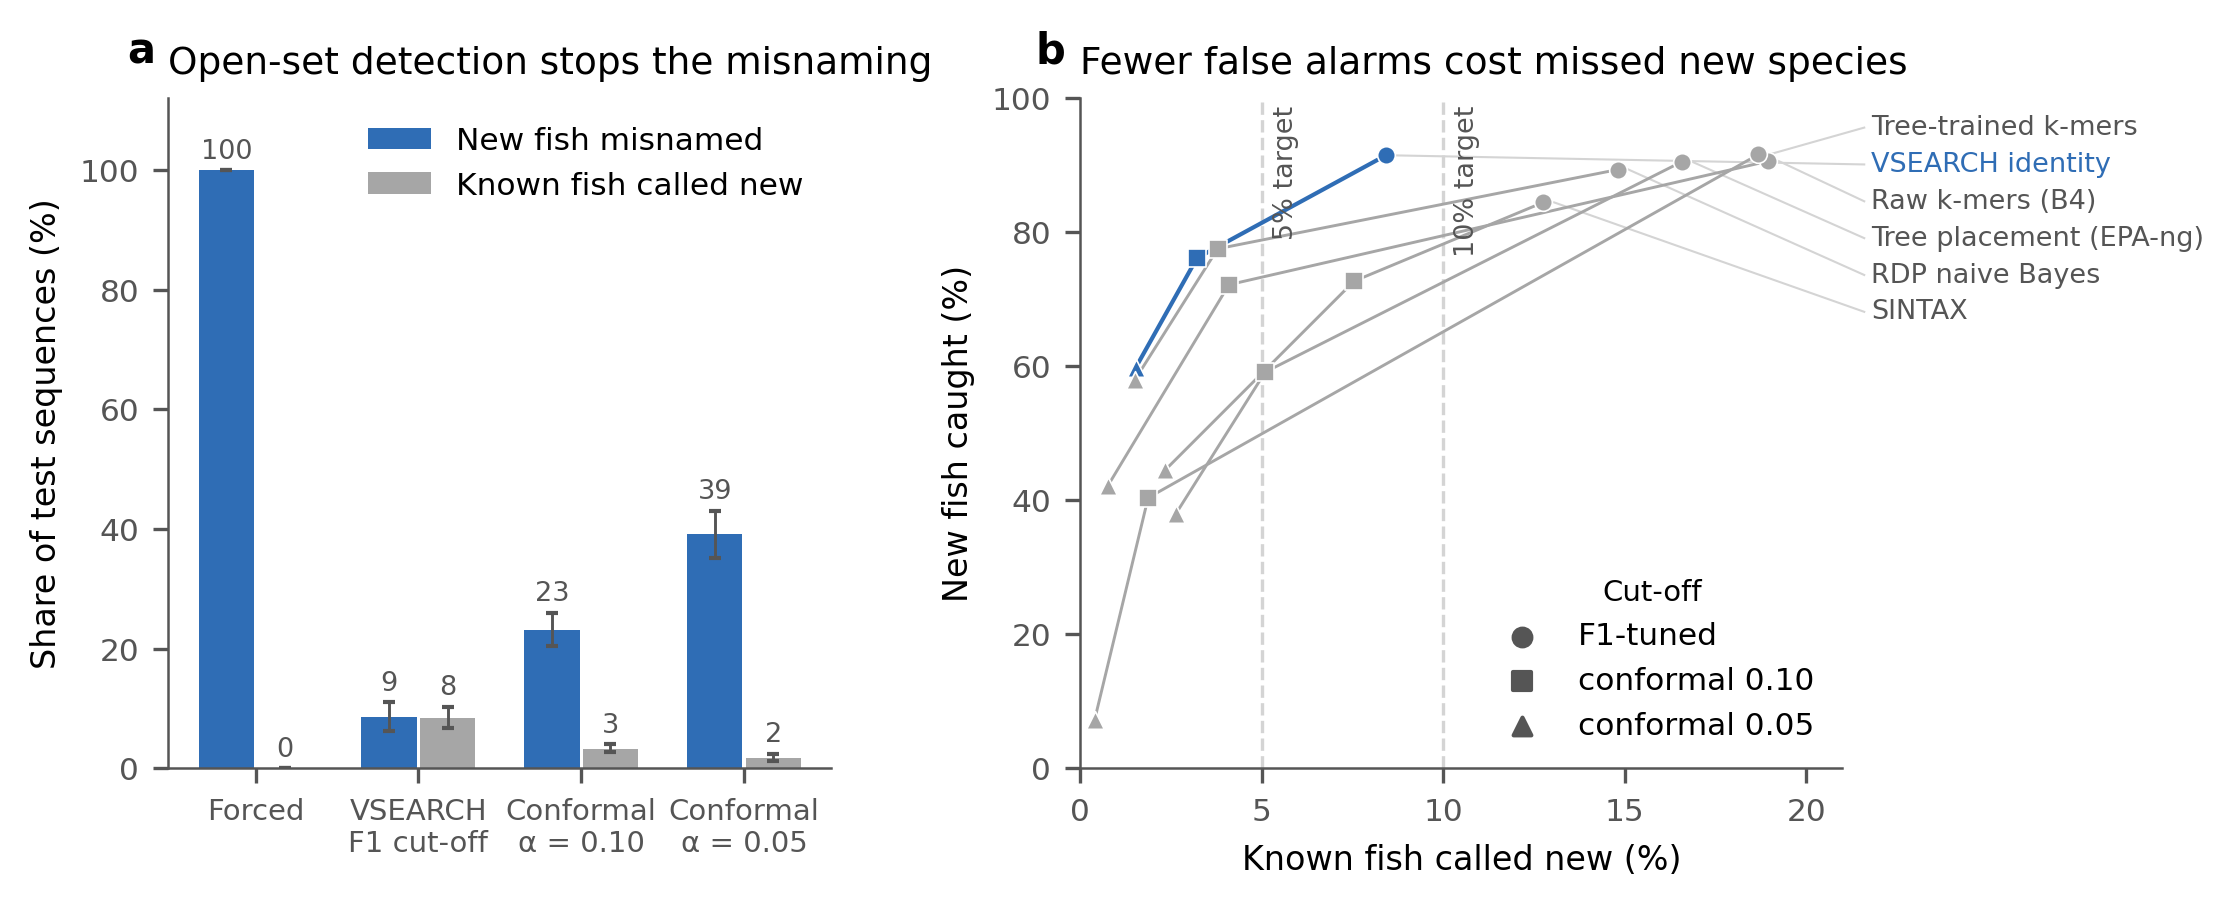
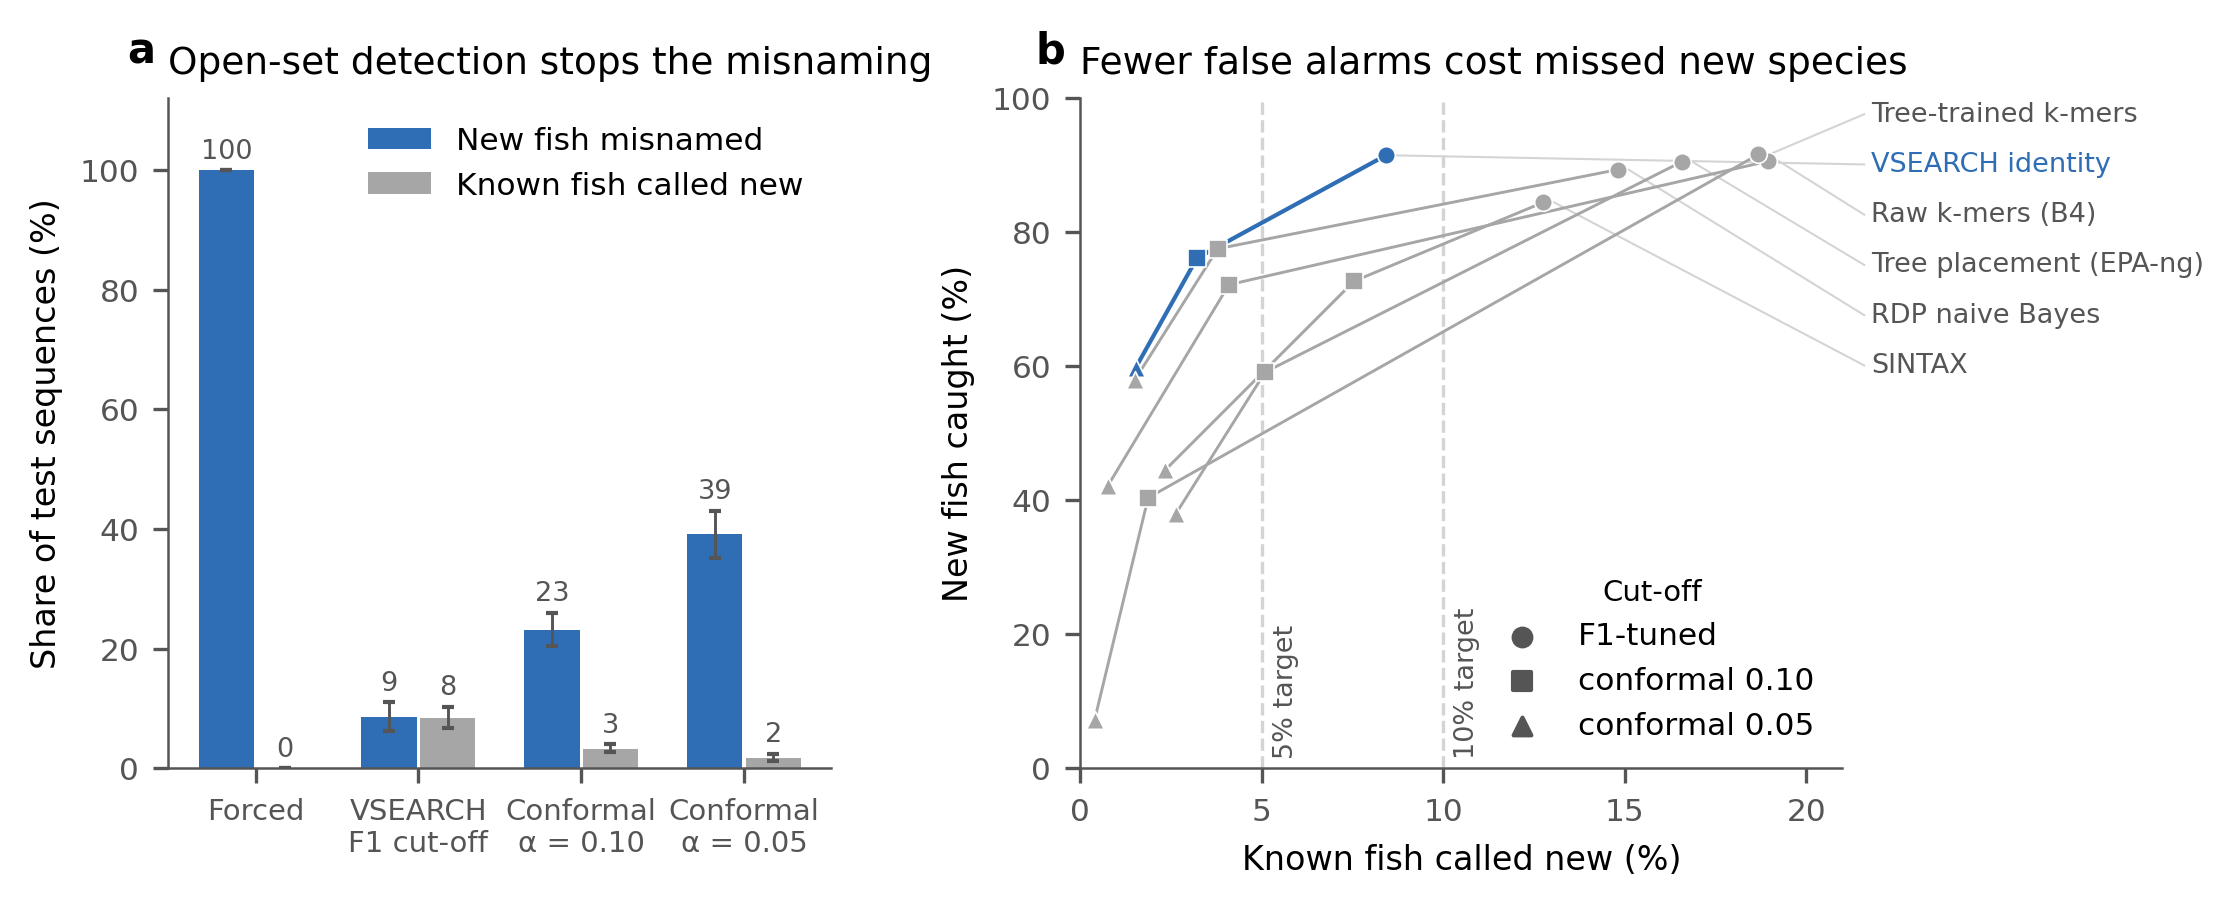
Fig 6: ZOTU-shuffle p-values; layout fixes for Figs 2, 5, 6

diff --git a/paper/evaluate.py b/paper/evaluate.py
@@ -271,7 +271,7 @@ def fig2():
     ends.sort(reverse=True)
     ly, prev = [], None
     for y, *_ in ends:
-        y = min(y, prev - 5.5) if prev is not None else y + 4
+        y = min(y, prev - 7.5) if prev is not None else y + 6
         ly.append(y)
         prev = y
     for (y, x, tname, tool), yl in zip(ends, ly):
@@ -280,7 +280,7 @@ def fig2():
         b.text(21.8, yl, tname, fontsize=6.5, va="center", color=col)
     for t in (5, 10):
         b.axvline(t, color=LIGHT, lw=0.8, ls="--", zorder=0)
-        b.text(t + 0.3, 99, f"{t}% target", fontsize=6.5, color=DARK, rotation=90, va="top")
+        b.text(t + 0.3, 1.5, f"{t}% target", fontsize=6.5, color=DARK, rotation=90, va="bottom")
     for r, lab in [("f1", "F1-tuned"), ("conf10", "conformal 0.10"), ("conf05", "conformal 0.05")]:
         b.scatter([], [], marker=marks[r], color=DARK, s=18, label=lab)
     b.legend(frameon=False, loc="lower right", title="Cut-off", title_fontsize=7)
@@ -428,7 +428,7 @@ def fig5():
     species = clean.drop_duplicates("seq_id").set_index("seq_id").species_name
     fx = pd.read_csv(RES / "cluster_scores_fixed_per_split.csv")
     cs = pd.read_csv(RES / "cluster_scores_per_split.csv")
-    fig, (a, b, c) = plt.subplots(1, 3, figsize=(7.2, 2.5), gridspec_kw=dict(wspace=0.75))
+    fig, (a, b, c) = plt.subplots(1, 3, figsize=(7.2, 2.5), gridspec_kw=dict(wspace=0.95))
     meths = [("gap_align_vs", "Calibrated gap"), ("fixed97_single_vs", "Fixed 97%"), ("fixed98_single_vs", "Fixed 98%"),
              ("fixed99_single_vs", "Fixed 99%"), ("fixed100_single_vs", "Exact (100%)")]
     gap_ari, gap_err = by_split(fx, "ARI", method="gap_align_vs"), count_error("gap_align_vs", species)
@@ -464,14 +464,14 @@ def fig5():
     panel(a, "a")
     panel(b, "b")
     others = [("gap_align", "Calibrated gap"), ("ptp", "PTP"), ("kmer", "HDBSCAN"),
-              ("phylo_tree", "Tree grouping")]
+              ("phylo_tree", "Tree\ngrouping")]
     for i, (m_, lab) in enumerate(others):
         y = len(others) - 1 - i
         m, lo, hi = ci_mean(by_split(cs, "ARI", method=m_))
         c.barh(y, m, 0.62, color=BLUE if i == 0 else GREY)
         c.errorbar(m, y, xerr=[[m - lo], [hi - m]], color=DARK, lw=0.7, capsize=1.5)
         c.text(hi + 0.01, y, f"{m:.2f}", va="center", fontsize=7, color=DARK)
-        key("Results 8", f"{lab}: ARI (B4-called)", m, lo, hi, source="cluster_scores_per_split")
+        key("Results 8", f"{lab.replace(chr(10), ' ')}: ARI (B4-called)", m, lo, hi, source="cluster_scores_per_split")
     c.set_yticks(range(len(others)), [o[1] for o in others][::-1])
     c.set_xlim(0, 1.08)
     c.set_xlabel("ARI vs true species")
@@ -499,10 +499,12 @@ def fig6():
             xx = i + (j - 0.5) * 0.36
             a.bar(xx, 100 * m, 0.34, color=colr, label=lab if i == 0 else None)
             a.errorbar(xx, 100 * m, [[100 * (m - lo)], [100 * (hi - m)]], color=DARK, lw=0.7, capsize=1.5)
-            a.text(xx, 100 * hi + 2, f"{k}/{len(sub)}", ha="center", fontsize=6, color=DARK)
+            a.text(xx, 100 * hi + 3, f"{k}/{len(sub)}", ha="center", va="bottom", fontsize=5.5, color=DARK,
+                   rotation=90 if j == 1 else 0)
             key("Results 11", f"{r}: {lab} (proxy labels)", m, lo, hi, source="zotu_calls (Clopper-Pearson)")
     a.set_xticks(x, ["97%", "F1", "α.10", "α.05"], fontsize=7)
-    a.set_ylim(0, 118)
+    a.set_ylim(0, 132)
+    a.set_yticks(range(0, 101, 20))
     a.set_ylabel("Share of proxy-labelled variants (%)")
     a.set_title(f"Proxy labels: {len(new)} new, {len(known)} known", loc="left")
     a.legend(frameon=False, loc="upper right", fontsize=6.5)
@@ -518,17 +520,18 @@ def fig6():
             base = gi * (len(REAL_RULES) + 1) + i
             b.bar(base - w / 2 - 0.01, 100 * nw, w, color=BLUE, label="Called new" if (gi, i) == (0, 0) else None)
             b.bar(base + w / 2 + 0.01, 100 * kn, w, color=GREY, label="Called known" if (gi, i) == (0, 0) else None)
-            p = perm[(perm["filter"] == filt) & (perm.rule == r) & (perm.level == "genus") & (perm.shuffle == "site")].p
-            ptxt = "p<0.001" if len(p) and p.iloc[0] < 0.001 else (f"p={p.iloc[0]:.2f}" if len(p) else "")
+            p = perm[(perm["filter"] == filt) & (perm.rule == r) & (perm.level == "genus") & (perm.shuffle == "zotu")].p
+            ptxt = "p<0.001" if len(p) and p.iloc[0] < 0.001 else (f"p={p.iloc[0]:.2g}" if len(p) else "")
             b.text(base, 100 * max(nw, kn) + 0.8, ptxt, ha="center", fontsize=5.5, color=DARK, rotation=90, va="bottom")
             key("Results 11", f"net check genus fit, {filt}, {r}: new", nw, source=f)
-            key("Results 11", f"net check genus fit, {filt}, {r}: known", kn, source=f"{f}; site-shuffle p = {p.iloc[0] if len(p) else np.nan:.2g}")
+            key("Results 11", f"net check genus fit, {filt}, {r}: known", kn, source=f"{f}; ZOTU-shuffle p = {p.iloc[0] if len(p) else np.nan:.2g}")
     ticks = [gi * (len(REAL_RULES) + 1) + i for gi in range(2) for i in range(len(REAL_RULES))]
     short = {"vsearch97": "97%", "b2_f1": "F1", "conf10": "α.10", "conf05": "α.05"}
     b.set_xticks(ticks, [short[r[0]] for _ in groups for r in REAL_RULES], fontsize=6.5)
     for gi, (_, _, glab) in enumerate(groups):
         b.text(gi * (len(REAL_RULES) + 1) + 1.5, -4.2, glab, ha="center", fontsize=7, color=DARK, clip_on=False)
-    b.text(0.0, -0.2, "97% = VSEARCH 97%, F1 = VSEARCH F1 cut-off, α = conformal",
+    b.text(0.0, -0.33, "97% = VSEARCH 97%, F1 = VSEARCH F1 cut-off, α = conformal. p: one-sided permutation test,\n"
+           "labels shuffled among sequence variants (10,000 permutations; exploratory, not corrected)",
            transform=b.transAxes, fontsize=6, color=DARK)
     b.set_ylim(0, 30)
     b.set_ylabel("Occurrences matching a net-caught\ngenus missing from the library (%)")
